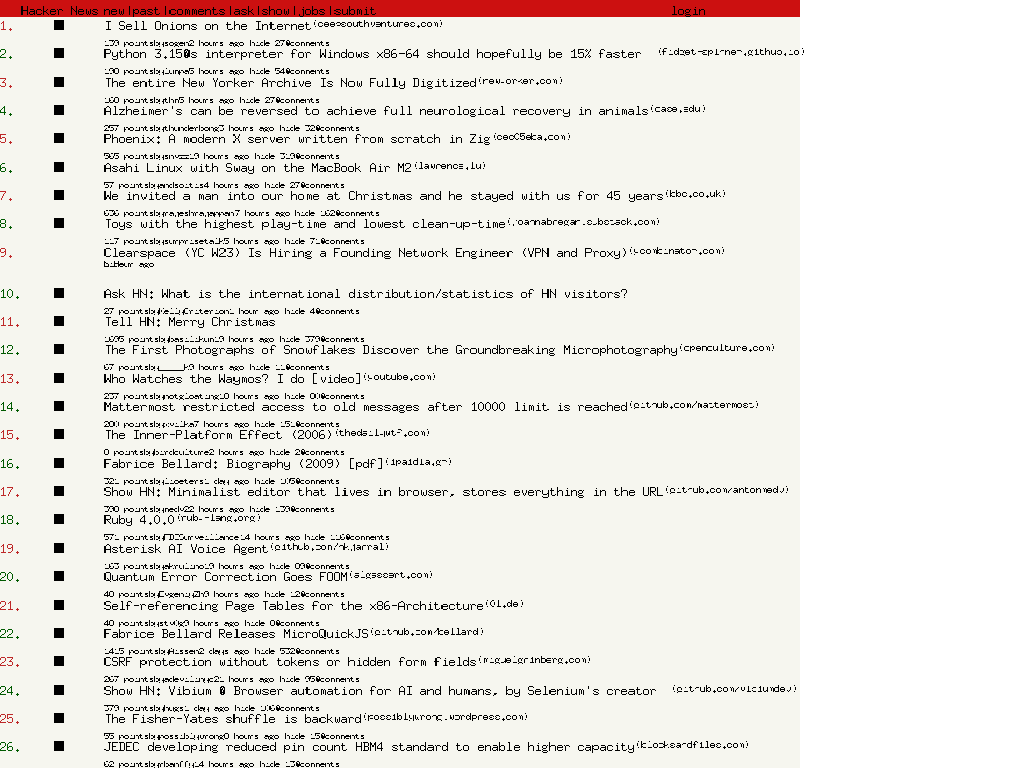
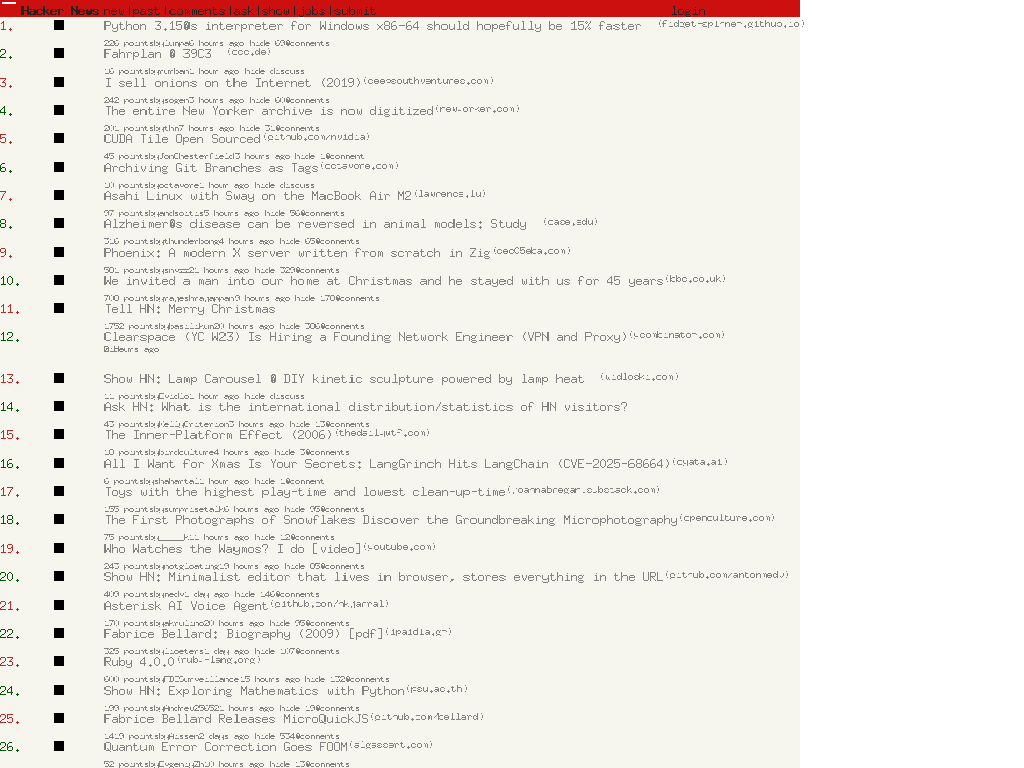
Add test case screenshot to README and clean up copilot-instructions
- Add test case screenshot showing styled HTML with borders, colors, and text
- Update Hacker News screenshot in README
- Clean up copilot-instructions.md, keeping only essential MILESTONES.md and screenshot requirements

diff --git a/.github/copilot-instructions.md b/.github/copilot-instructions.md
@@ -25,51 +25,12 @@ This project renders HTML/CSS to PNG images. Visual changes are difficult to rev
 
 1. **Keep the README Hacker News screenshot current.** When you make meaningful rendering/layout changes, regenerate `hackernews_screenshot.png` (e.g., `./browser -output hackernews_screenshot.png https://news.ycombinator.com/`) and update the README reference.
 
-1. **Before submitting changes** that affect rendering, layout, or styling:
+2. **Before submitting changes** that affect rendering, layout, or styling:
    - Build the browser: `go build ./cmd/browser`
    - Render a test page: `./browser -output screenshot.png test/render_test.html`
    - Attach the screenshot to your PR or commit
 
-2. **Create comparison screenshots** when modifying existing behavior:
+3. **Create comparison screenshots** when modifying existing behavior:
    - Capture "before" screenshot using the main branch
    - Capture "after" screenshot with your changes
    - Include both in your PR description
-
-3. **Use descriptive test HTML files** to demonstrate changes:
-   - Create minimal HTML that showcases the specific feature
-   - Save test files in the `test/` directory
-
-## Rendering Commands
-
-```bash
-# Build the browser
-go build ./cmd/browser
-
-# Render HTML to PNG
-./browser -output output.png test/styled.html
-
-# Render with custom viewport size
-./browser -output output.png -width 1024 -height 768 test/styled.html
-
-# View layout tree without rendering
-./browser test/styled.html
-```
-
-## Test Files
-
-- `test/simple.html` - Basic HTML structure
-- `test/styled.html` - HTML with CSS styling
-- `test/render_test.html` - Visual rendering test with colored boxes
-- `test/hackernews.html` - HN-inspired layout test with image
-
-## Code Guidelines
-
-- Follow existing code style and patterns
-- **ALWAYS add spec references for CSS/HTML/DOM implementations** (see existing code for examples)
-  - For CSS features: Reference CSS 2.1 specification sections (e.g., "CSS 2.1 §5.8 Attribute selectors")
-  - For HTML features: Reference HTML5 specification sections (e.g., "HTML5 §2.5 URLs")
-  - For DOM features: Reference DOM Level 2 Core or relevant specs
-  - For non-standard or practical implementations: Document the reasoning
-- Write unit tests for new functionality
-- Run `go test ./...` before submitting changes
-- Update MILESTONES.md when completing tasks or discovering limitations

diff --git a/README.md b/README.md
@@ -72,7 +72,15 @@ go build ./cmd/browser
 ./browser -output output.png -width 1024 -height 768 test/hackernews.html
 ```
 
-## Screenshot
+## Screenshots
+
+### Test Case Rendering
+
+Example of styled HTML with borders, colors, and text formatting:
+
+![Test Case Rendering](./test_case_screenshot.png)
+
+### Hacker News
 
 Latest Hacker News render (1024x768):
 
